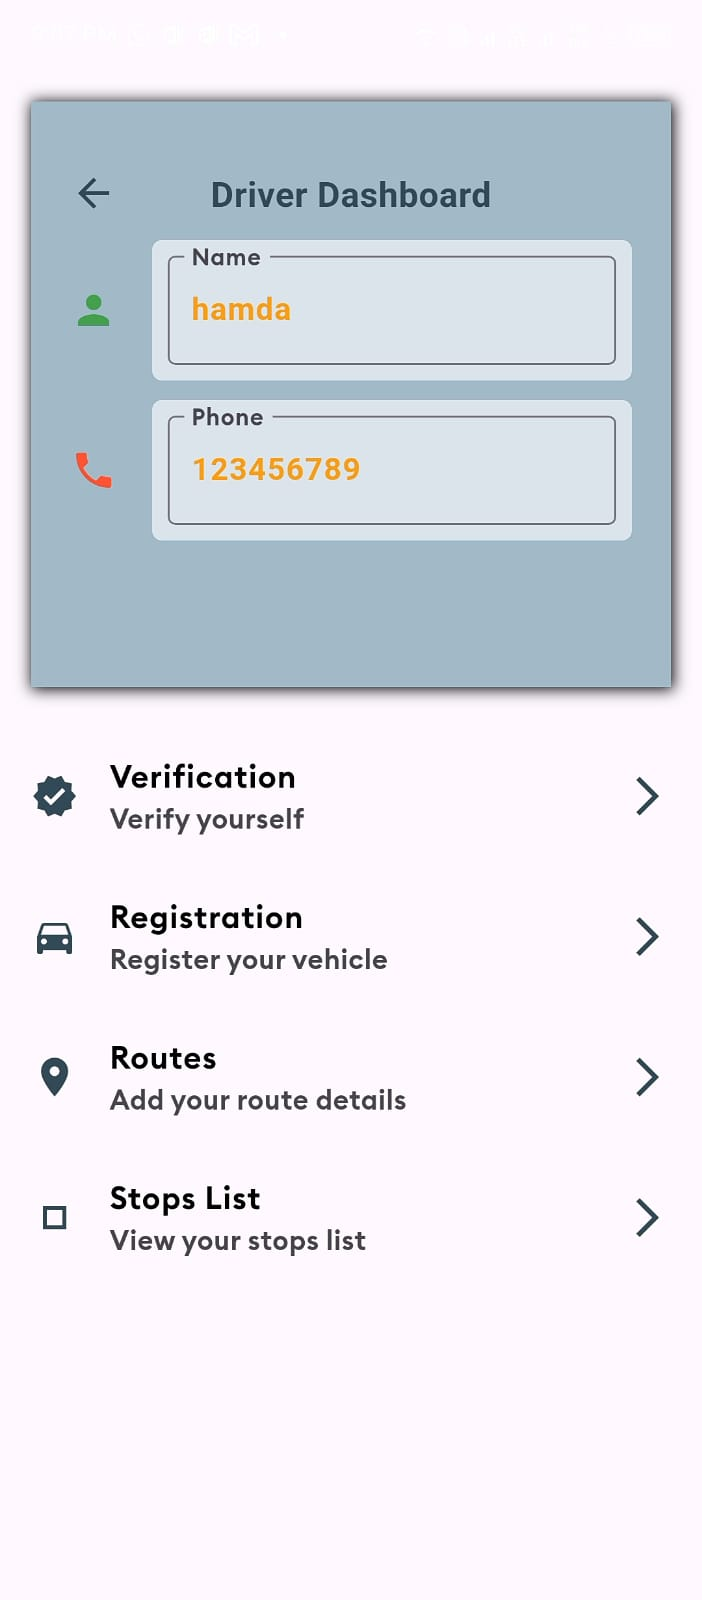
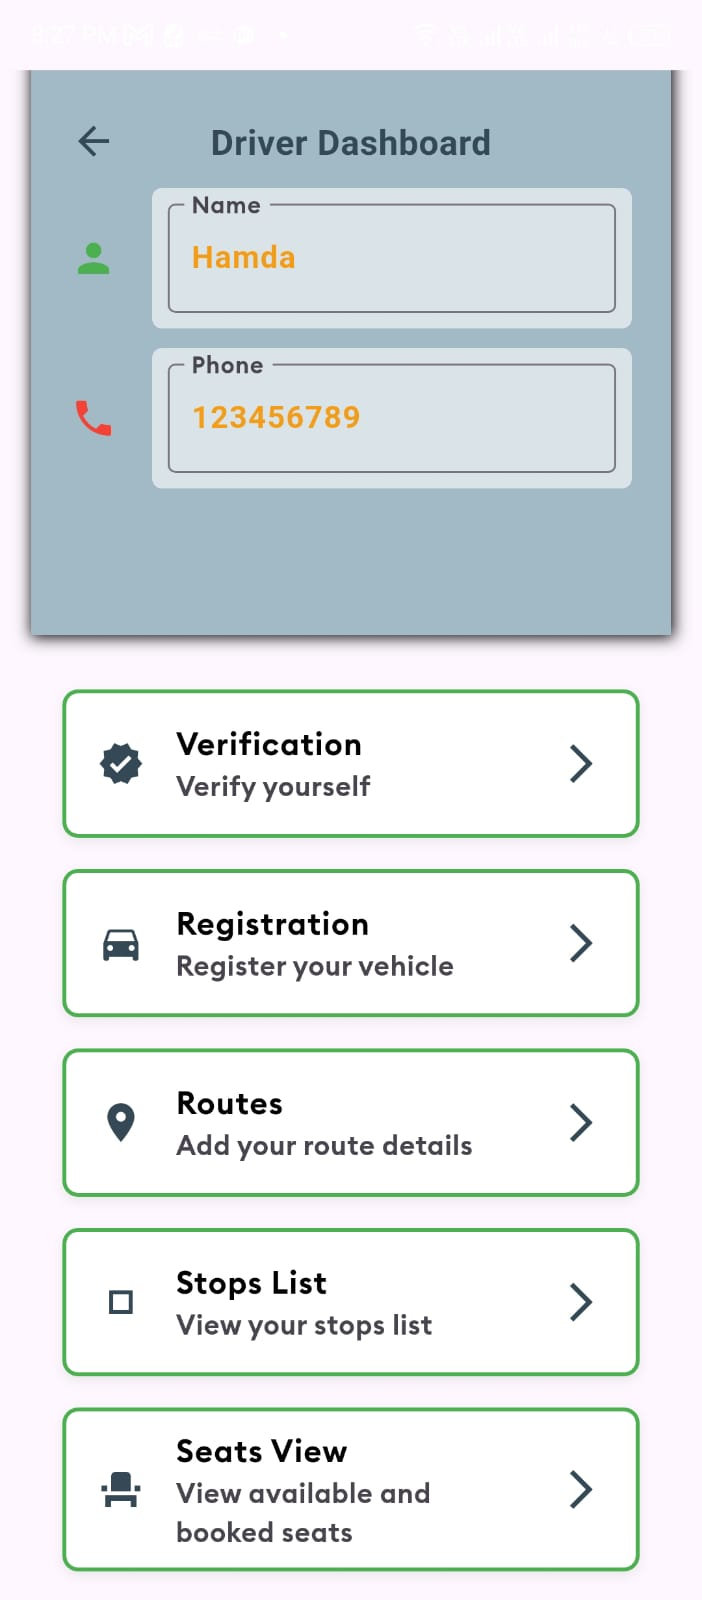
readme update

diff --git a/README.md b/README.md
@@ -9,9 +9,7 @@ GoMatch is a **Flutter-based ride-hailing app** designed for both **passengers a
 ### 🏡 **Home Screen**
 
 ✔ **Google Maps Integration** – Displays maps in real-time  
-✔ **Live Vehicle Tracking** – Shows nearby drivers  
 ✔ **Route Mapping** – View ride routes dynamically  
-✔ **Search Autocomplete** – Predicts drop-off locations  
 ✔ **Markers & Directions API** – Visual aids for better navigation  
 ✔ **State Management** – Efficient handling with Provider
 
@@ -32,7 +30,6 @@ GoMatch is a **Flutter-based ride-hailing app** designed for both **passengers a
 ✔ **Driver Dashboard** – Manage ride requests and accept/reject rides  
 ✔ **Vehicle Registration** – Add vehicle details  
 ✔ **Stop Timings** – Set and manage stop timings  
-✔ **Driver Listings** – View and manage all registered drivers
 
 ---
 
@@ -60,9 +57,9 @@ GoMatch is a **Flutter-based ride-hailing app** designed for both **passengers a
 
 ### **🚘 Driver Mode**
 
-| Driver Dashboard                               | Vehicle Registration                                  | Stop Timings                                  | Ride Requests                                          |
-| ---------------------------------------------- | ----------------------------------------------------- | --------------------------------------------- | ------------------------------------------------------ |
-| ![Dashboard](screenshots/driver_dashboard.jpg) | ![Registration](screenshots/vehicle_registration.jpg) | ![Stop Timings](screenshots/stop_timings.jpg) | ![Ride Requests](screenshots/driver_ride_requests.jpg) |
+| Driver Dashboard                               | Vehicle Registration                                  | Stop Timings                                  | Ride Requests                                          | Seats View                                      |
+| ---------------------------------------------- | ----------------------------------------------------- | --------------------------------------------- | ------------------------------------------------------ | ----------------------------------------------- |
+| ![Dashboard](screenshots/driver_dashboard.jpg) | ![Registration](screenshots/vehicle_registration.jpg) | ![Stop Timings](screenshots/stop_timings.jpg) | ![Ride Requests](screenshots/driver_ride_requests.jpg) | ![Seats View](screenshots/seats_view.jpg)       |
 
 ### **🔐 Authentication & Admin Panel**
 
@@ -70,11 +67,11 @@ GoMatch is a **Flutter-based ride-hailing app** designed for both **passengers a
 | ------------------------------- | --------------------------------- | ----------------------------------------- | ----------------------------------------------- |
 | ![Login](screenshots/login.jpg) | ![Signup](screenshots/signup.jpg) | ![Drivers](screenshots/admin_drivers.jpg) | ![Passengers](screenshots/admin_passengers.jpg) |
 
-### **⚙ Settings Page**
+<!-- ### **⚙ Settings Page**
 
 | Settings Overview                                       |
 | ------------------------------------------------------- |
-| ![Settings Overview](screenshots/settings_overview.jpg) |
+| ![Settings Overview](screenshots/settings_overview.jpg) | -->
 
 > **Note:** Screenshots are from the latest build of the app.
 
